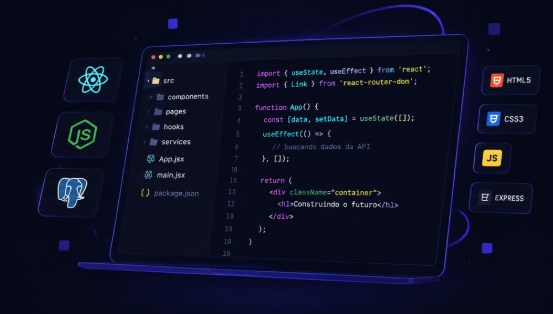
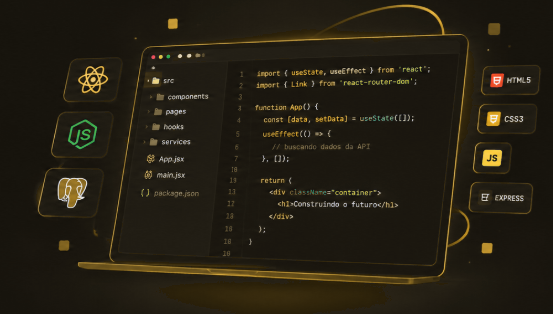
fix: alteração de paleta de cores

diff --git a/client/src/pages/Formulario.css b/client/src/pages/Formulario.css
@@ -107,6 +107,43 @@
     resize: vertical;
 }
 
+input[type="file"] {
+  width: 100%;
+  padding: 10px;
+  background-color: var(--color-bg);
+  border: 1px dashed var(--color-border);
+  border-radius: 8px;
+  color: var(--color-text);
+  font-family: var(--font-mono);
+  font-size: 0.85rem;
+  cursor: pointer;
+  transition: border-color 0.3s ease, background-color 0.3s ease;
+}
+
+input[type="file"]:hover {
+  border-color: var(--color-primary);
+  background-color: rgba(108, 124, 255, 0.05);
+}
+
+input[type="file"]::file-selector-button {
+  margin-right: 14px;
+  padding: 8px 16px;
+  background-color: rgba(108, 124, 255, 0.15);
+  border: 1px solid var(--color-primary);
+  border-radius: 6px;
+  color: var(--color-primary);
+  font-family: var(--font-mono);
+  font-size: 0.8rem;
+  font-weight: 600;
+  cursor: pointer;
+  transition: background-color 0.3s ease, color 0.3s ease;
+}
+
+input[type="file"]::file-selector-button:hover {
+  background-color: var(--color-primary);
+  color: var(--color-text-strong);
+}
+
 .formulario-conteudo input::placeholder,
 .formulario-conteudo textarea::placeholder {
     color: var(--color-text);

diff --git a/client/src/pages/Formulario.jsx b/client/src/pages/Formulario.jsx
@@ -71,7 +71,7 @@ export default function Formulario() {
                 </div>
 
                 <div className="formulario-header-acoes">
-                    <Link to="/admin/dashboard" className="formulario-btn-cancelar">Cancelar</Link>
+                    <Link to="/admin/dashboard" className="formulario-voltar-lista">← Lista</Link>
                     <button className="formulario-btn-sair" onClick={handleSair}>sair</button>
                 </div>
             </header>
@@ -164,7 +164,7 @@ export default function Formulario() {
 
                     <div className="formulario-acoes">
                         <button type="submit" className="formulario-btn-adicionar">Adicionar Projeto</button>
-                        <Link to="/admin/editar" className="formulario-btn-cancelar">Cancelar</Link>
+                        <Link to="/admin/dashboard" className="formulario-btn-cancelar">Cancelar</Link>
                     </div>
                 </form>
             </main>

diff --git a/client/src/pages/EditarForm.jsx b/client/src/pages/EditarForm.jsx
@@ -109,14 +109,14 @@ export default function EditarForm() {
                         onChange={handleChange}
                     />
 
-                    <label htmlFor="imagem">url da imagem / gif</label>
+                   <label htmlFor="imagem">imagem de capa *</label>
                     <input
-                        type="text"
+                        type="file"
                         id="imagem"
                         name="imagem"
-                        placeholder="https://..."
-                        value={formulario.imagem}
+                        accept="image/*"
                         onChange={handleChange}
+                        required
                     />
                     <span className="formulario-dica">Cole a URL de uma imagem ou GIF do projeto</span>
 

diff --git a/client/src/App.css b/client/src/App.css
@@ -5,13 +5,14 @@
 }
 
 :root {
-  --color-bg: #0a0e17;
-  --color-bg-alt: #1a1f2e;
-  --color-border: #1f2430;
-  --color-text: #5b5e66;
+  --color-bg: #0c0a07;
+  --color-bg-alt: #1a1611;
+  --color-border: #2a241a;
+  --color-text: #8a8578;
   --color-text-strong: #ffffff;
-  --color-primary: #6c7cff;
-  --color-primary-alt: #a855f7;
+  --color-primary: #e6b325;
+  --color-primary-alt: #c98a1b;
+  --color-primary-rgb: 230, 179, 37;
 
   --font-base: 'Inter', sans-serif;
   --font-mono: 'JetBrains Mono', monospace;

diff --git a/client/src/components/Navbar.css b/client/src/components/Navbar.css
@@ -22,7 +22,7 @@
   font-family: monospace;
   font-size: 1.3rem;
   font-weight: bold;
-  color: #6c7cff;
+  color: var(--color-primary);
 }
 
 .navbar-menu {
@@ -35,13 +35,13 @@
 
 .navbar-menu a {
   text-decoration: none;
-  color: #c5c9d3;
+  color: var(--color-primary);
   font-size: 0.95rem;
   transition: color 0.2s;
 }
 
 .navbar-menu a:hover {
-  color: #6c7cff;
+  color:var(--color-text);
 }
 
 .navbar-hamburguer {

diff --git a/client/src/components/Skills.jsx b/client/src/components/Skills.jsx
@@ -7,7 +7,7 @@ const tags = [
   { name: 'Express', color: '#ffffff' },
   { name: 'REST API', color: '#a855f7' },
   { name: 'Git', color: '#f05033' },
-  { name: 'PostgreSQL', color: '#336791' },
+  { name: 'MongoDB', color: '#336791' },
   { name: 'Firebase', color: '#ffa611' },
 ];
 
